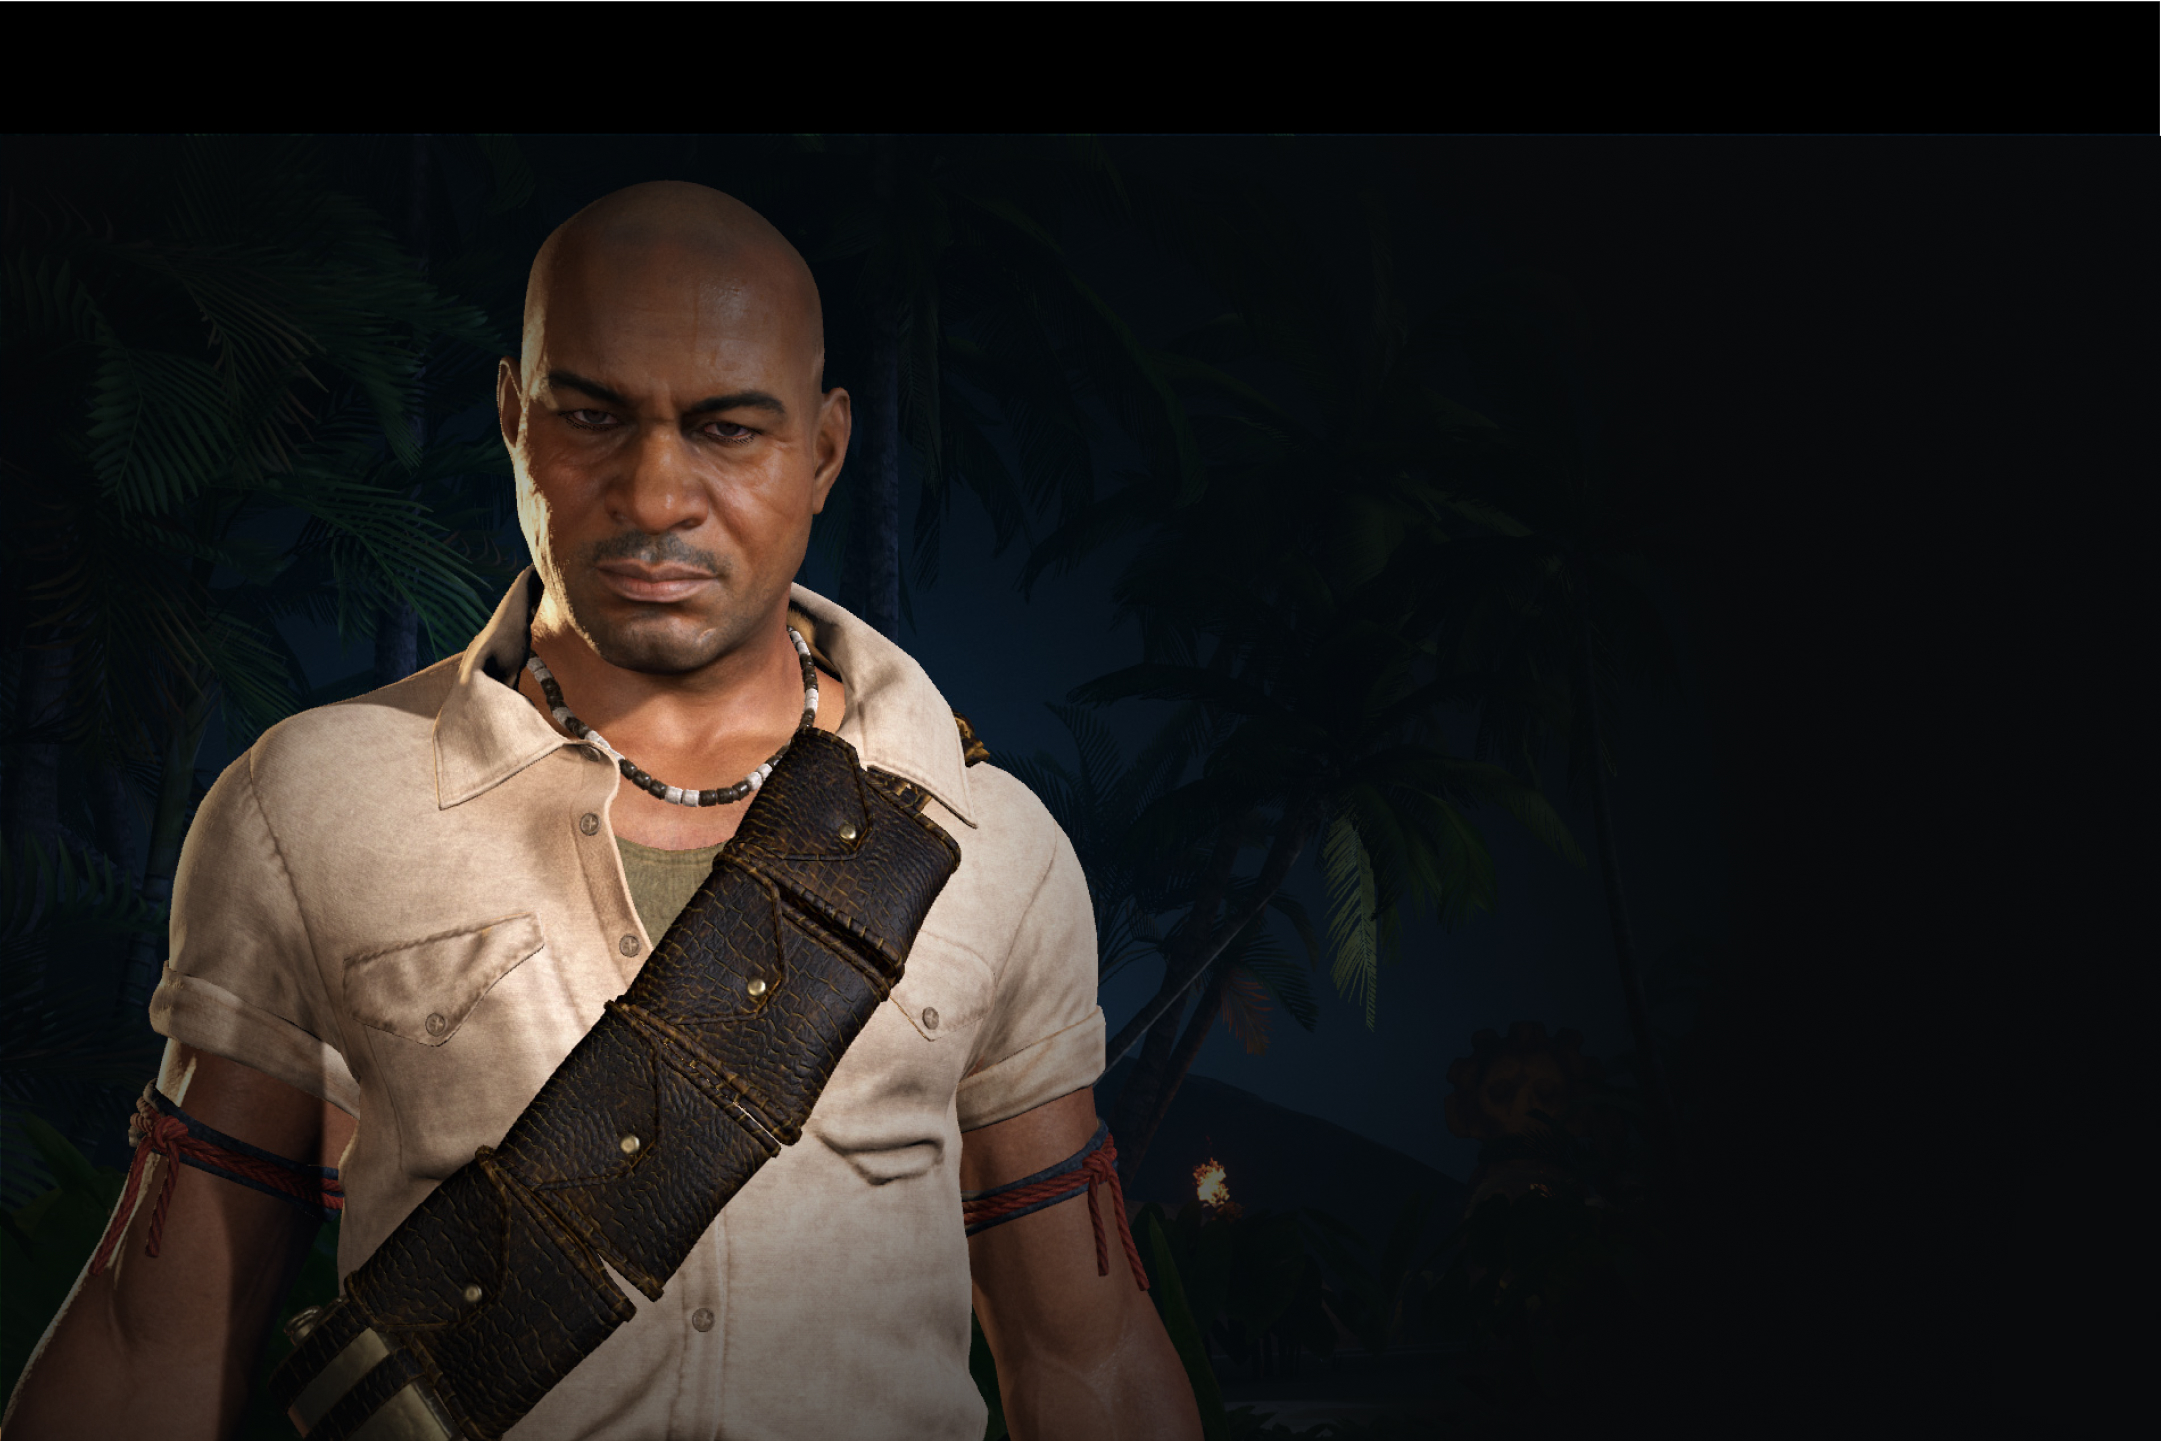
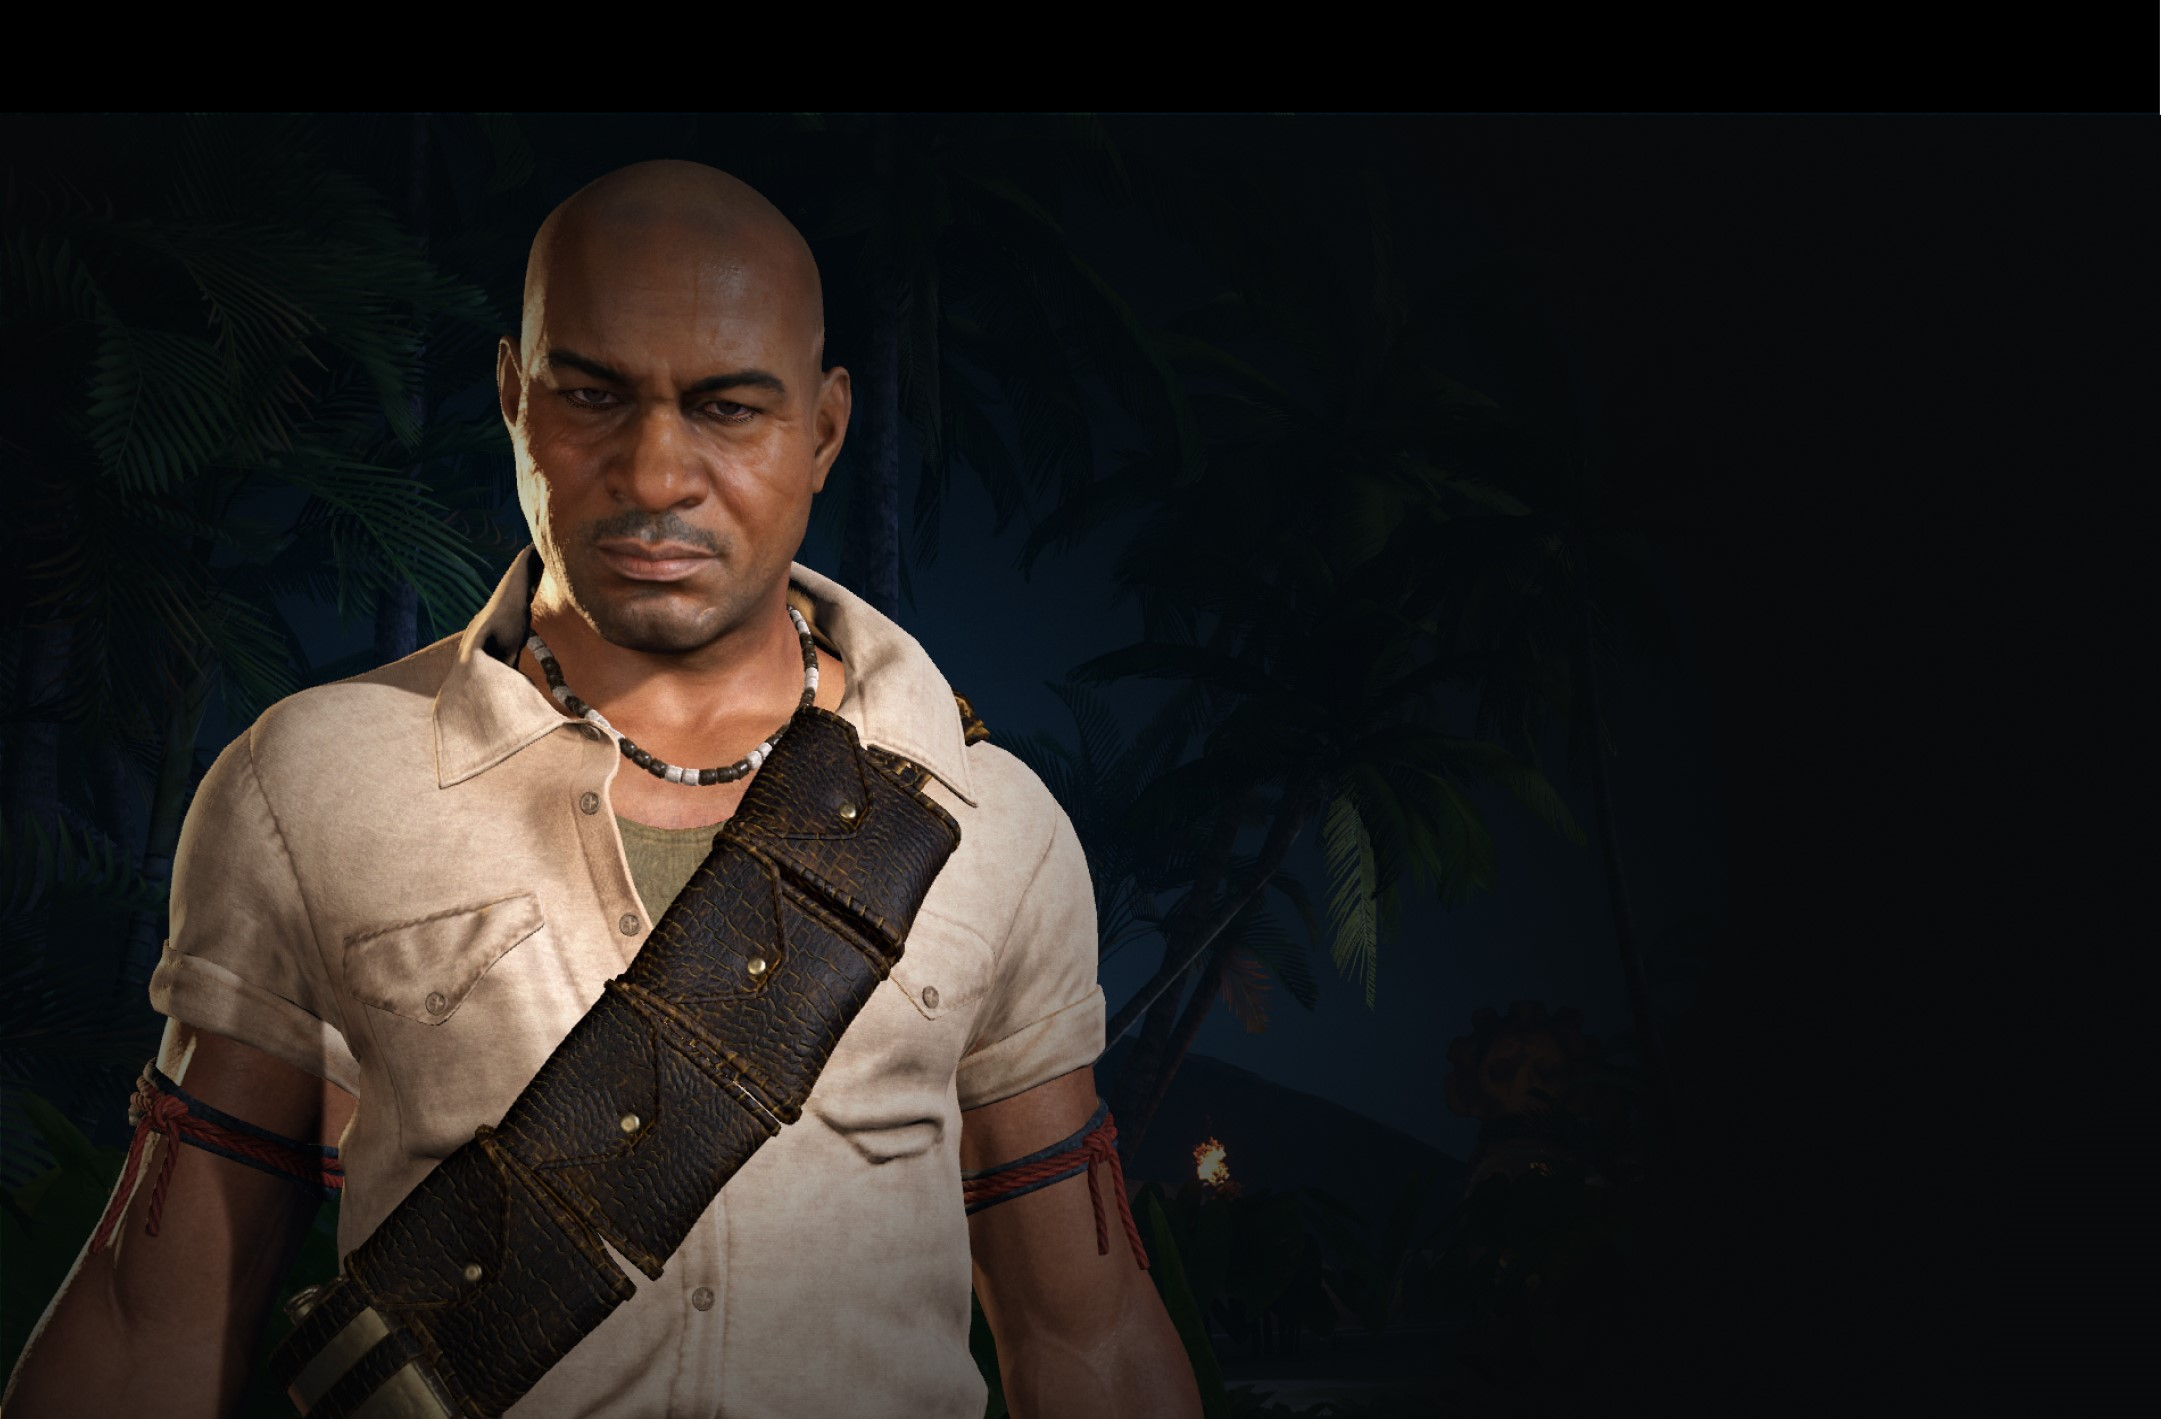
fixed navbar and background issue

diff --git a/index.html b/index.html
@@ -7,51 +7,41 @@
     <title>Game Example</title>
     <link rel="stylesheet" href="style.css">
     <link rel="stylesheet" href="https://cdnjs.cloudflare.com/ajax/libs/twitter-bootstrap/5.1.1/css/bootstrap.min.css">
+    <link rel="preconnect" href="https://fonts.googleapis.com">
+    <link rel="preconnect" href="https://fonts.gstatic.com" crossorigin>
+    <link href="https://fonts.googleapis.com/css2?family=Open+Sans&display=swap" rel="stylesheet">
 
 </head>
 <body class="bg-dark">
     <!-- Navbar -->
-    <nav class="navbar sticky-top navbar-expand-lg navbar-dark shadow-5-strong">
+    <nav class="navbar navbar-expand-md bg-dark navbar-dark sticky-top ">
         <!-- Container wrapper -->
         <div class="container-fluid">
             <!-- Navbar brand -->
             <a class="navbar-brand" href="#">LOGO</a>
 
             <!-- Toggle button -->
-            <button class="navbar-toggler" type="button" data-mdb-toggle="collapse"
-                data-mdb-target="#navbarSupportedContent" aria-controls="navbarSupportedContent" aria-expanded="false"
-                aria-label="Toggle navigation">
-                <i class="fas fa-bars"></i>
+            <button class="navbar-toggler" data-bs-toggle="collapse" data-bs-target="#mainNav">
+                <span class="navbar-toggler-icon"></span>
             </button>
-
             <!-- Collapsible wrapper -->
-            <div class="collapse navbar-collapse" id="navbarSupportedContent">
+            <div class="collapse navbar-collapse font-opensans" id="mainNav">
                 <!-- Left links -->
                 <ul class="navbar-nav me-auto mb-2 mb-lg-0">
                     <li class="nav-item">
-                        <a class="nav-link active" aria-current="page" href="#">Home</a>
-                    </li>
-                    <!-- Navbar dropdown -->
-                    <li class="nav-item dropdown">
-                        <a class="nav-link dropdown-toggle" href="#" id="navbarDropdown" role="button"
-                            data-mdb-toggle="dropdown" aria-expanded="false">
-                            Works
-                        </a>
-                        <!-- Dropdown menu -->
-                        <ul class="dropdown-menu" aria-labelledby="navbarDropdown">
-                            <li>
-                                <a class="dropdown-item" href="#">Games</a>
-                            </li>
-                            <li>
-                                <a class="dropdown-item" href="#">Another Games</a>
-                            </li>
-                        </ul>
+                        <a class="nav-link active" aria-current="page" href="#">HOME</a>
                     </li>
                     <li class="nav-item">
-                        <a class="nav-link" href="#">Contact</a>
+                        <a class="nav-link" href="#">WORK</a>
                     </li>
                     <li class="nav-item">
-                        <a class="nav-link" href="#">About Me</a>
+                        <a class="nav-link" href="#">CONTACT</a>
+                    </li>
+                    <li class="nav-item">
+                        <a class="nav-link" href="#">ABOUT ME</a>
+                    </li>
+                    <li class="nav-item">
+                        <a class="nav-link" href="#">Q&A</a>
                     </li>
                 </ul>
                 <!-- Left links -->
@@ -59,7 +49,7 @@
             <!-- Collapsible wrapper -->
 
             <!--Right Navbar-->
-            <ul class="navbar-nav ms-auto">
+            <ul class="navbar-nav ms-auto font-opensans">
                 <li class="nav-item"><a href="#" class="nav-link"">Login</a></li>
                 <li class="nav-item"><a href="#" class="nav-link"">Sign Up</a></li>
             </ul>
@@ -88,8 +78,8 @@
             <h2 class="display-5">THE GAMES
                 <img src="assets/rockpaperstrategy-1600.jpg" class="img-inside" alt="">
             </h2>
-            <img src="assets/switch.png" alt="" class="switch-left">
-            <img src="assets/switch (1).png" alt="" class="switch-right">
+            <!-- <img src="assets/switch.png" alt="" class="switch-left">
+            <img src="assets/switch (1).png" alt="" class="switch-right"> -->
         </div>
     </div>
     <!--Page 2-->

diff --git a/style.css b/style.css
@@ -1,6 +1,16 @@
+.font-opensans{
+    font-family: 'Open Sans', sans-serif;
+    font-weight: bold;
+    font-size: 12px;
+    line-height: 16px;
+    letter-spacing: 0.1em;
+    text-transform: uppercase;
+    
+    color: #FFFFFF;
+}
 
 .jumbo-1{
-    background-image: url(assets/main-bg.jpg);
+    background-image: url(assets/main-bg.png);
     background-size: cover;
     height: 150vh;
     background-repeat: no-repeat;
